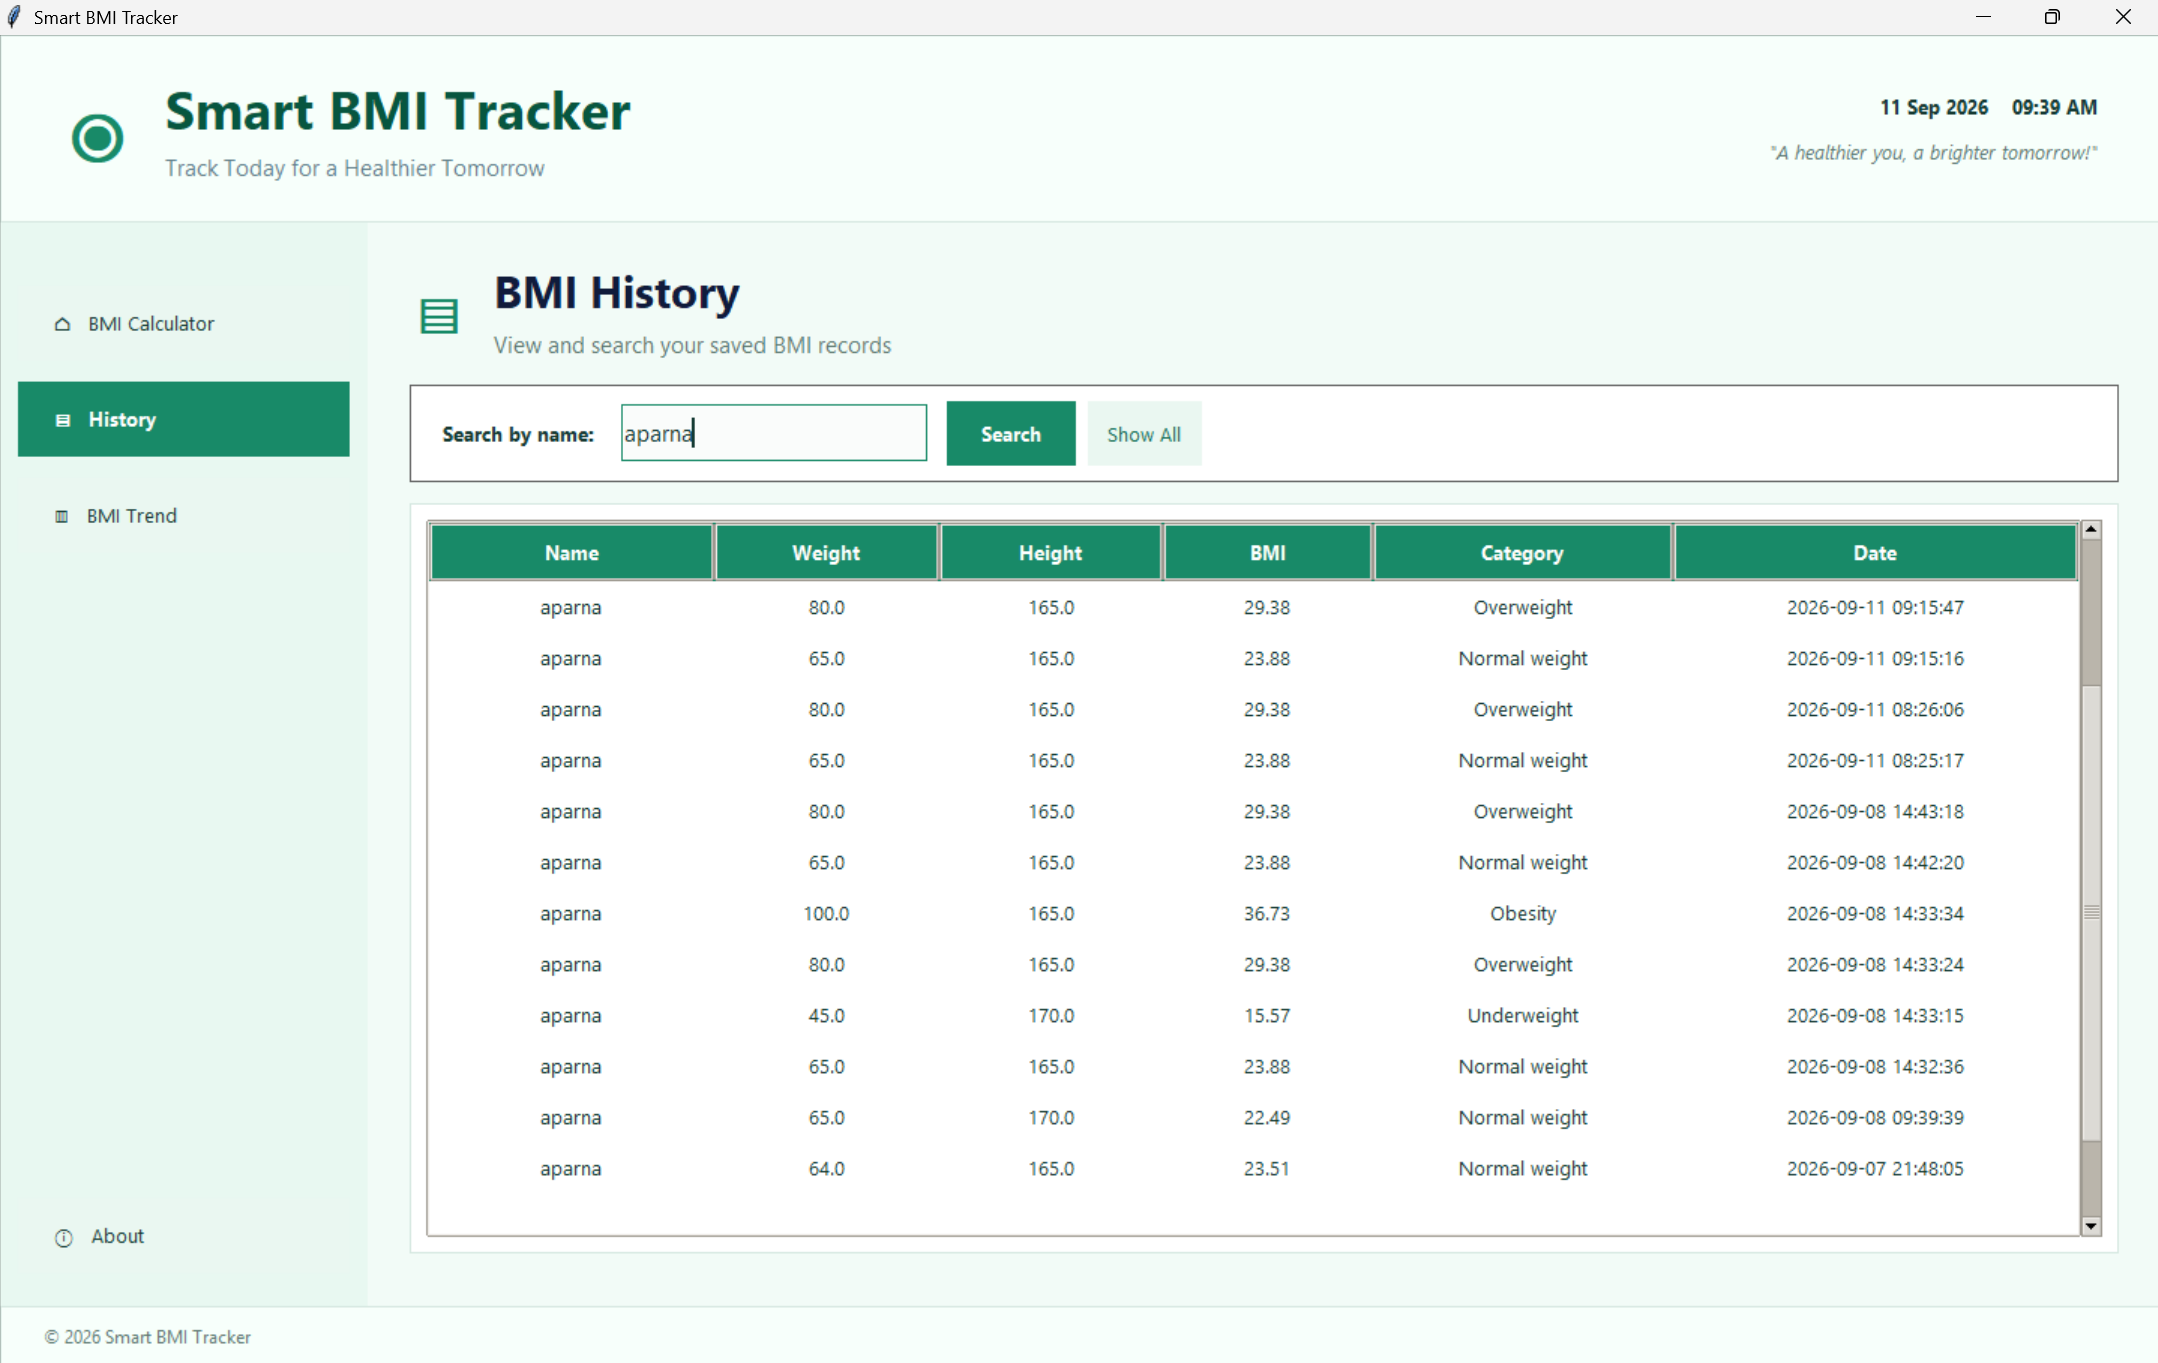
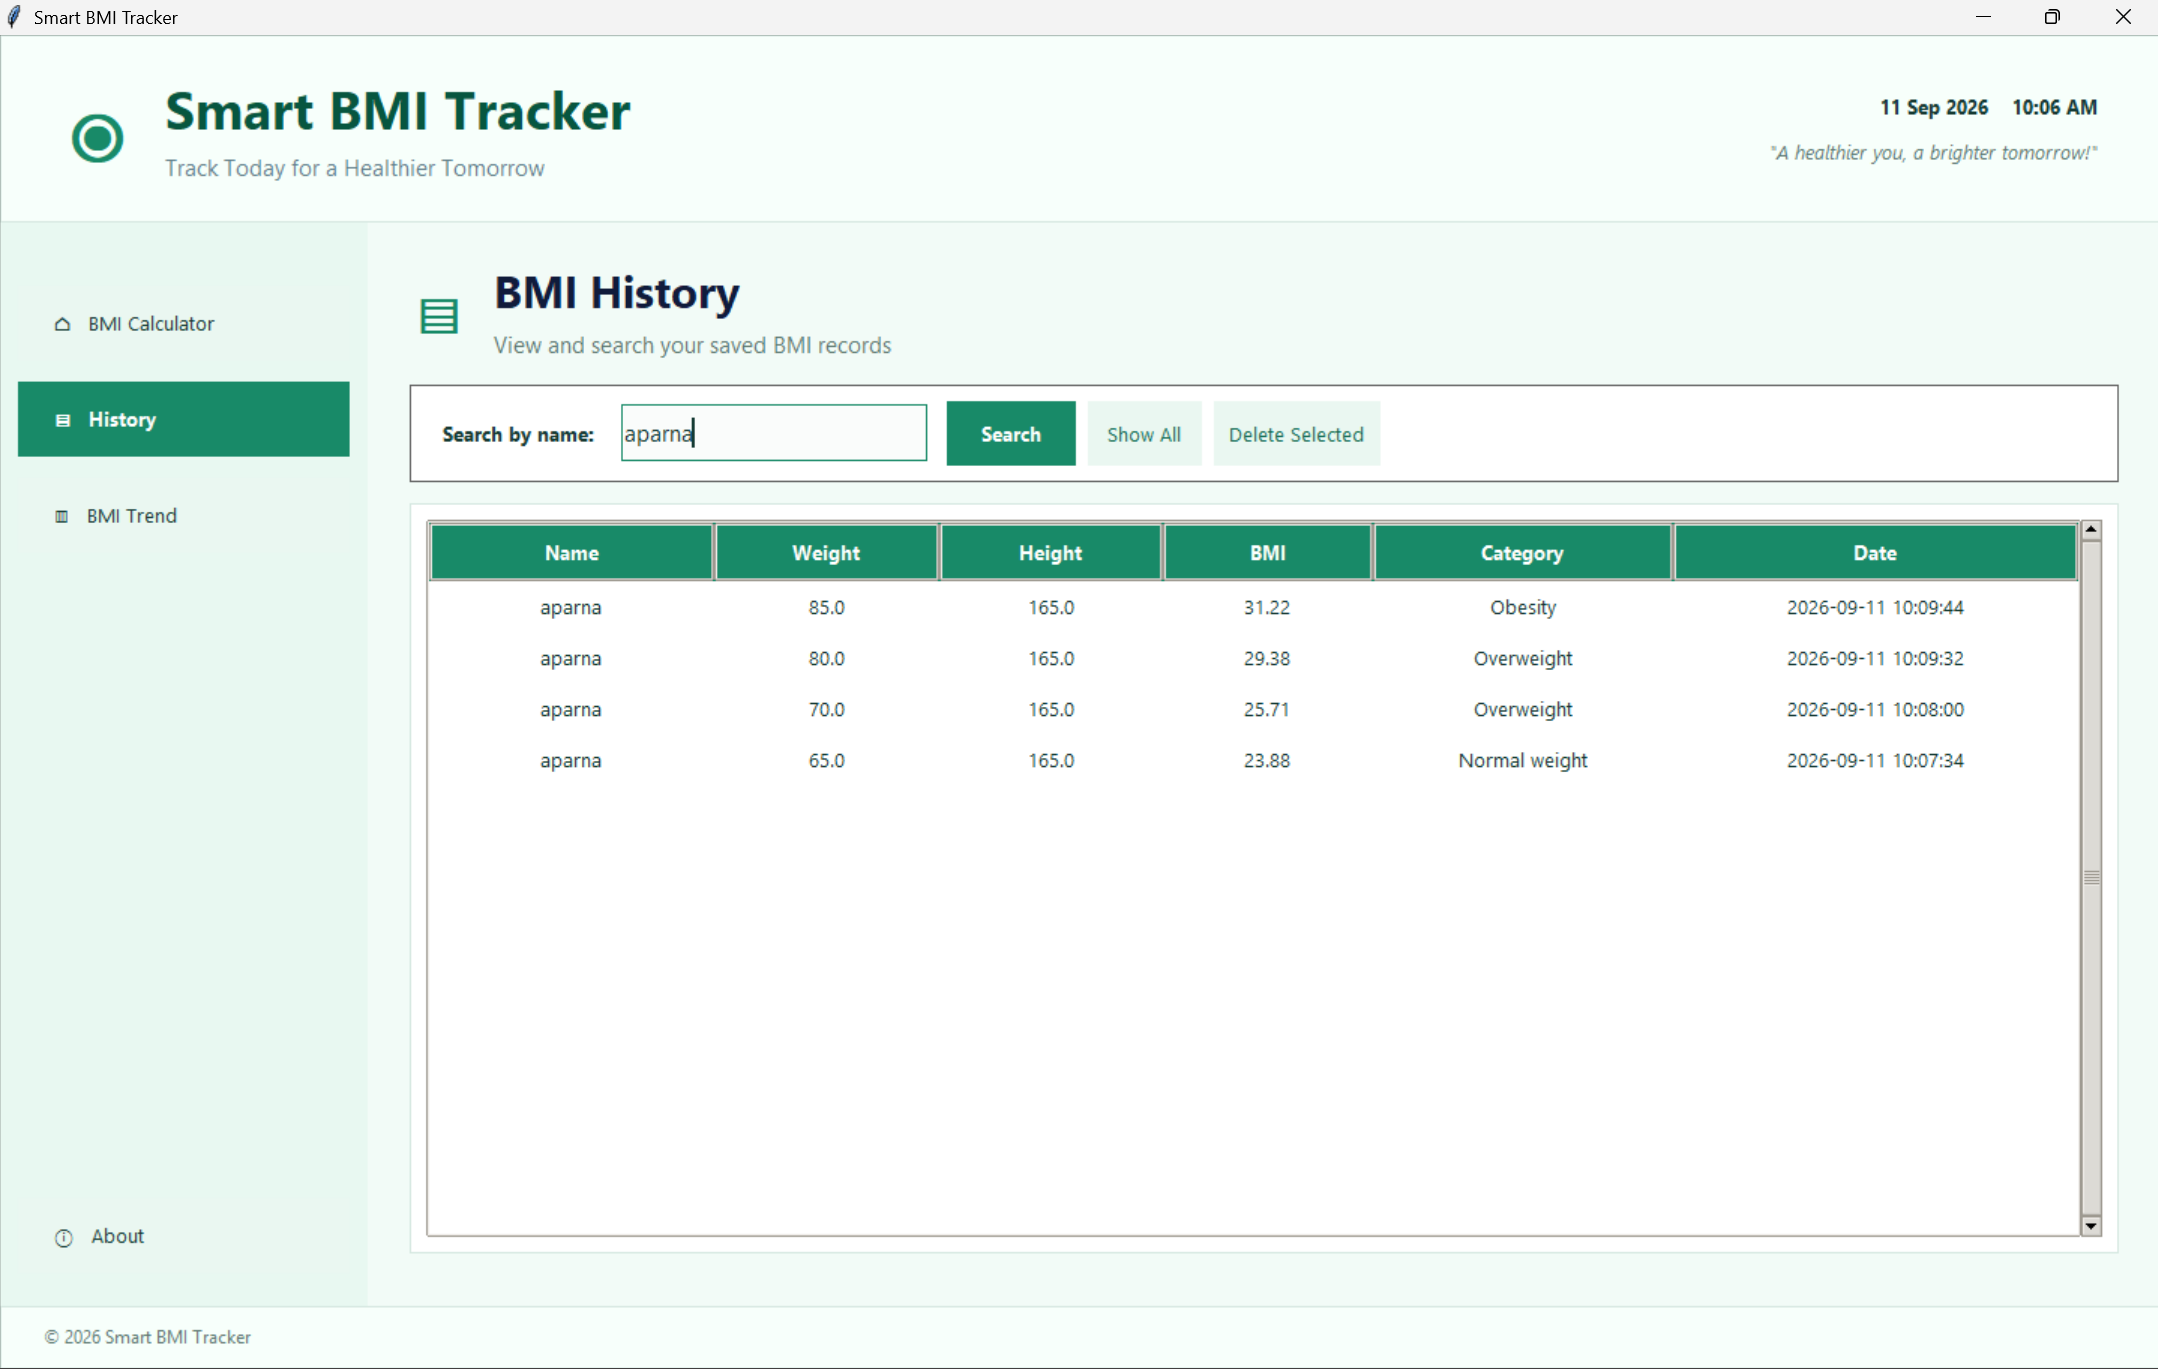
Update UI

diff --git a/Python-Task2-BMICalculator/main.py b/Python-Task2-BMICalculator/main.py
@@ -1,5 +1,6 @@
 import tkinter as tk
-from tkinter import ttk
+from tkinter import ttk, messagebox
+import sqlite3
 import matplotlib.pyplot as plt
 from matplotlib.backends.backend_tkagg import FigureCanvasTkAgg
 from bmi_logic import calculate_bmi, get_bmi_category
@@ -503,6 +504,73 @@ def build_history_page():
         value = search_entry.get().strip()
         load_records(value if value else None)
 
+    def delete_selected():
+        selected = table.selection()
+
+        if not selected:
+            messagebox.showwarning(
+                "No Selection",
+                "Please select a BMI record to delete."
+            )
+            return
+
+        values = table.item(selected[0], "values")
+
+        confirm = messagebox.askyesno(
+            "Delete Record",
+            f"Delete the selected BMI record for '{values[0]}'?"
+        )
+
+        if not confirm:
+            return
+
+        try:
+            connection = sqlite3.connect("bmi_tracker.db")
+            cursor = connection.cursor()
+
+            cursor.execute(
+                """
+                DELETE FROM bmi_records
+                WHERE id = (
+                    SELECT id FROM bmi_records
+                    WHERE name = ?
+                      AND weight = ?
+                      AND height = ?
+                      AND bmi = ?
+                      AND category = ?
+                      AND recorded_at = ?
+                    ORDER BY id DESC
+                    LIMIT 1
+                )
+                """,
+                (
+                    values[0],
+                    float(values[1]),
+                    float(values[2]),
+                    float(values[3]),
+                    values[4],
+                    values[5]
+                )
+            )
+
+            connection.commit()
+            connection.close()
+
+            load_records(
+                search_entry.get().strip() or None
+            )
+
+            messagebox.showinfo(
+                "Record Deleted",
+                "The selected BMI record was deleted successfully."
+            )
+
+        except (sqlite3.Error, ValueError):
+            messagebox.showerror(
+                "Delete Error",
+                "Could not delete the selected BMI record."
+            )
+
     button(
         search_card, "Search", search_records,
         primary=True, width=10
@@ -511,6 +579,11 @@ def build_history_page():
     button(
         search_card, "Show All", lambda: load_records(),
         width=10
+    ).pack(side="left", padx=(0, 8), pady=10)
+
+    button(
+        search_card, "Delete Selected", delete_selected,
+        width=15
     ).pack(side="left", padx=(0, 15), pady=10)
 
     search_entry.bind("<Return>", lambda event: search_records())
@@ -659,9 +732,19 @@ def build_about_page():
         justify="center"
     ).pack(pady=10)
 
-    
+    tk.Label(
+        card,
+        text="Oasis Infobyte • Python Programming Internship • Task 2",
+        font=("Segoe UI", 10, "bold"),
+        bg=CARD, fg=PRIMARY
+    ).pack(pady=20)
 
-    
+    tk.Label(
+        card,
+        text="Developed by Aparna Sunil T P",
+        font=("Segoe UI", 10),
+        bg=CARD, fg=MUTED
+    ).pack()
 
 
 # -----------------------------
@@ -796,6 +879,7 @@ tk.Label(
     font=("Segoe UI", 9),
     bg="#F7FFFB", fg=MUTED
 ).pack(side="left", padx=25)
+
 
 
 show_page(build_calculator_page, "calculator")
